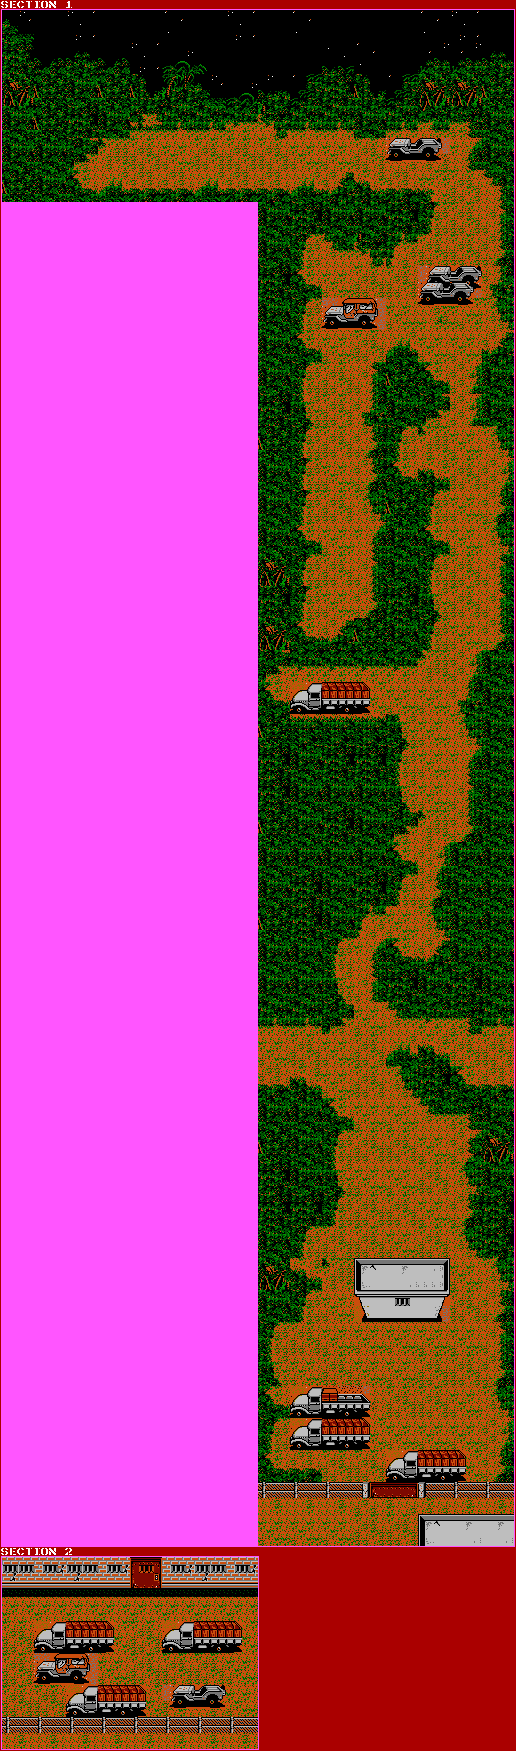
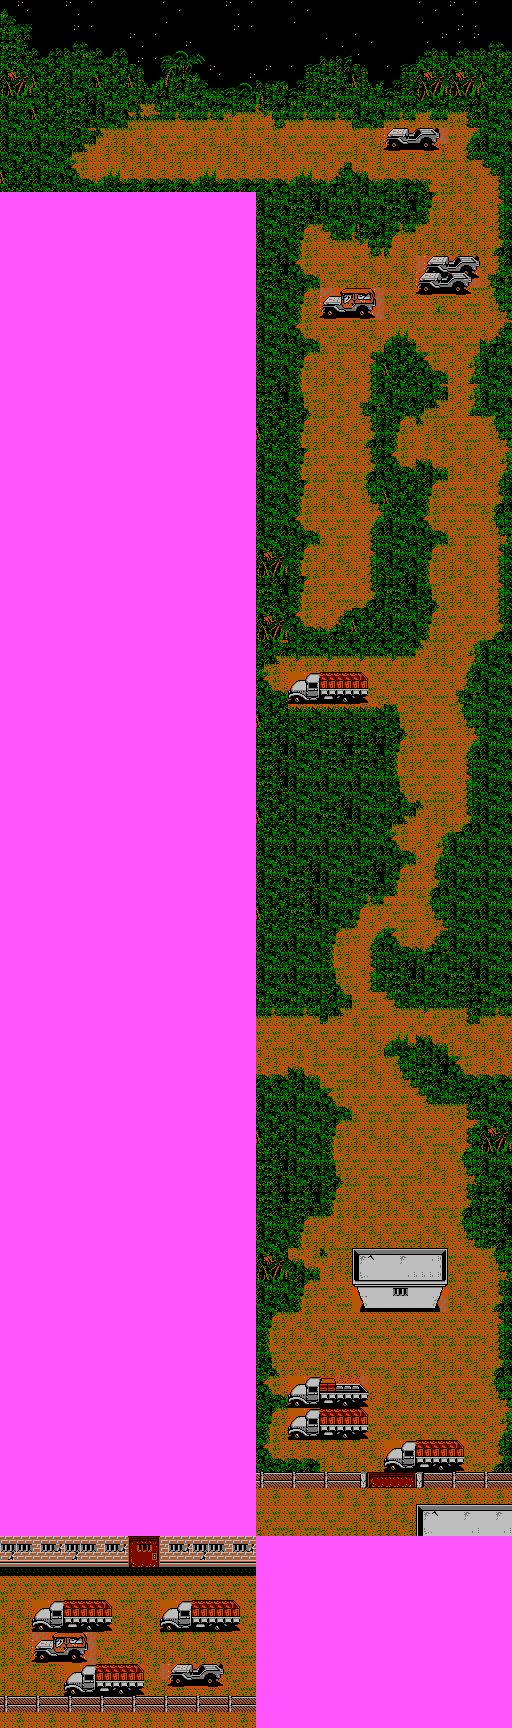
imagen recortada
variables de salto eliminadas

diff --git a/Projecte/MetalGear/Player.cpp b/Projecte/MetalGear/Player.cpp
@@ -5,11 +5,6 @@
 #include "Game.h"
 
 
-#define JUMP_ANGLE_STEP 4
-#define JUMP_HEIGHT 96
-#define FALL_STEP 4
-
-
 enum PlayerAnims
 {
 	STAND_LEFT, STAND_RIGHT, STAND_UP, STAND_DOWN, MOVE_LEFT, MOVE_RIGHT, MOVE_UP, MOVE_DOWN
